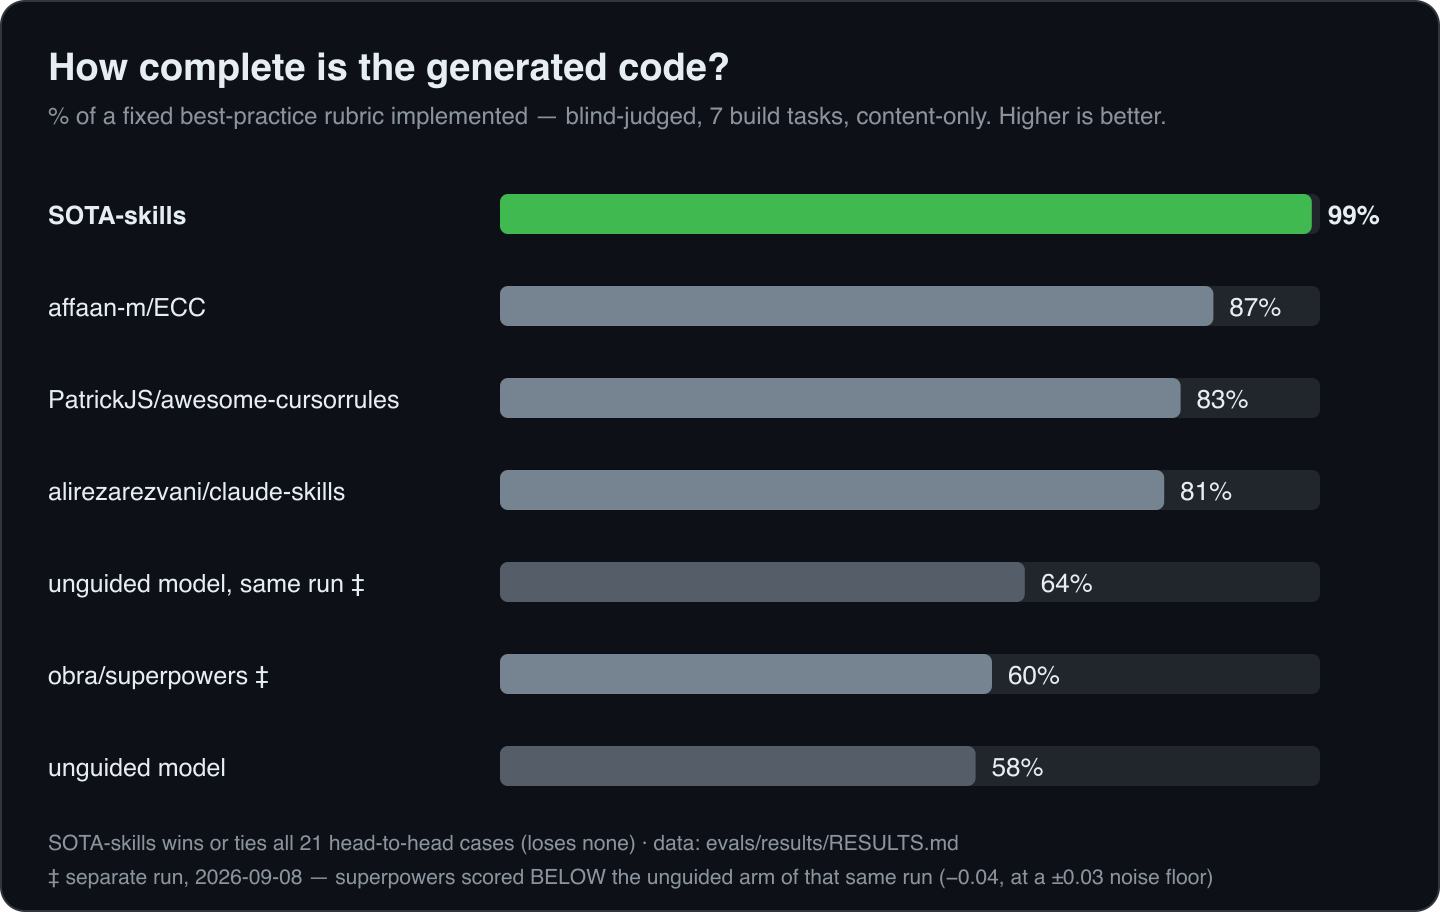
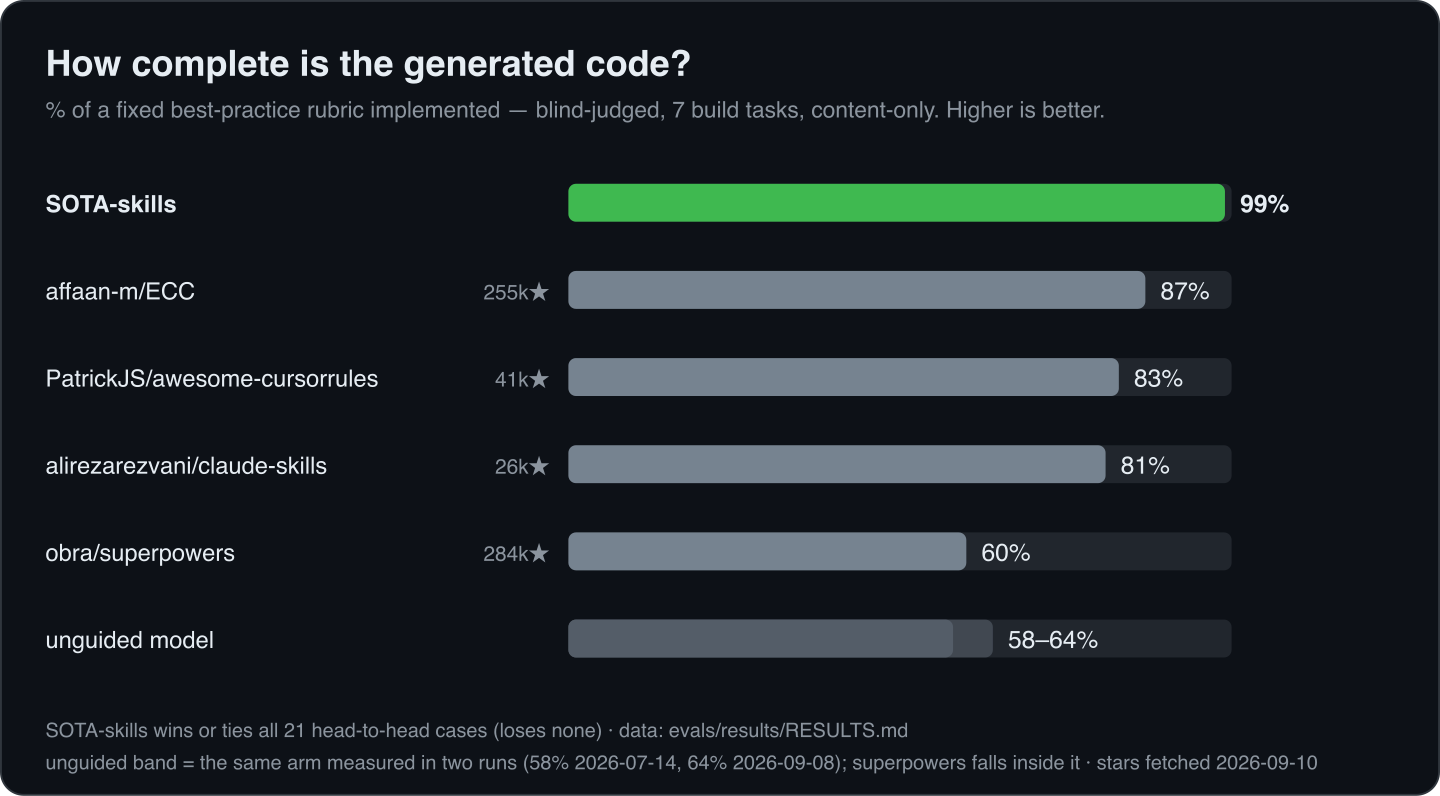
Benchmark chart: one baseline band, and star counts for the compared libraries (#340)
Two "unguided model" bars with two numbers (58% and 64%) was accurate and read
as a bug — the operator's first reaction was "this is confusing, two results for
the same thing?". Accuracy that reads as an error is a defect; a footnote does
not undo it.

The baseline is now ONE row spanning 58–64%, drawn as a solid bar to 58 with a
lighter extension to 64. That keeps what the two rows existed to say —
obra/superpowers at 60% lands INSIDE the band, so on this rubric it is not
distinguishable from no guidance — while putting a single baseline on the chart.
The spread is real and named in the footer: the same arm measured in two runs,
because temp 0 is not deterministic.

Star counts added for each compared library, live-fetched 2026-09-10 and dated in
the footer because they rot: ECC 255k, awesome-cursorrules 41k, claude-skills
26k, superpowers 284k. SOTA-skills deliberately carries NONE — our own star count
is a different and irrelevant claim here, and the chart is about completeness.
It also sharpens the framing the README already used: these are the popular
libraries.

Layout: 456 -> 420 high, label column widened 250 -> 300 for the star column.
Asserted rather than eyeballed — the baseline row must contain three rects
(track, band, solid) with band > solid, or the band silently renders as a plain
bar and nobody notices. The first draft of that assertion was itself wrong (it
compared y as a string) and was fixed before being trusted.
[…]

diff --git a/assets/gen-benchmark-chart.py b/assets/gen-benchmark-chart.py
@@ -16,22 +16,32 @@ import os
 import shutil
 import subprocess
 
-# The last two rows come from a SEPARATE run (2026-09-08) and are marked "‡".
-# They are shown as a PAIR on purpose: obra/superpowers scored 60% against an
-# unguided arm of 64% *in its own run*, i.e. BELOW no guidance. Plotting its 60%
-# beside this chart's 58% unguided — a different run's baseline — would read as
-# "beat the baseline" and invert the actual finding. Same 7 cases, same rubric,
-# same blind opus-4.8 judge, n=1 temp 0 throughout; the shared SOTA arm reproduces
-# at 0.987 across both runs, which is why they sit on one chart at all.
+# ONE baseline row, shown as a BAND, not two rows.
+#
+# An earlier version drew two "unguided model" bars (58% and 64%) because the
+# competitor benchmark and the superpowers head-to-head are separate runs whose
+# unguided arms differ -- temp-0 is not deterministic. It was accurate and it read
+# as a bug: a reader's first reaction was "why two baselines with two numbers?".
+# Confusion is a real cost, and explaining it in a footnote does not undo it.
+#
+# So the baseline is a single row spanning 58-64%, drawn as a solid bar to 58 with a
+# lighter extension to 64. That is honest about the spread AND makes the point the
+# two rows existed to make: obra/superpowers at 60% lands INSIDE the band, so it is
+# not distinguishable from no guidance at all. Nothing is claimed that the runs
+# cannot support, and there is only one baseline on the chart.
+#
+# Star counts are live-fetched context, not a metric: they say these are the POPULAR
+# libraries. SOTA-skills deliberately carries none -- comparing our own star count
+# here would be a different (and irrelevant) claim. Fetched 2026-09-10; stars rot,
+# so the footer dates them.
 ROWS = [
-    ("SOTA-skills", 99, "sota"),
-    ("affaan-m/ECC", 87, "comp"),
-    ("PatrickJS/awesome-cursorrules", 83, "comp"),
-    ("alirezarezvani/claude-skills", 81, "comp"),
-    ("unguided model, same run \u2021", 64, "base"),
-    ("obra/superpowers \u2021", 60, "comp"),
-    ("unguided model", 58, "base"),
+    ("SOTA-skills",                        99, "sota", ""),
+    ("affaan-m/ECC",                       87, "comp", "255k"),
+    ("PatrickJS/awesome-cursorrules",      83, "comp", "41k"),
+    ("alirezarezvani/claude-skills",       81, "comp", "26k"),
+    ("obra/superpowers",                   60, "comp", "284k"),
 ]
+BASE_LO, BASE_HI = 58, 64          # unguided, across the two runs
 
 THEMES = {
     "light": dict(surface="#ffffff", border="#d0d7de", ink="#1f2328", muted="#656d76",
@@ -40,8 +50,8 @@ THEMES = {
                  track="#21262d", sota="#3fb950", comp="#768390", base="#545d68"),
 }
 
-W, H = 720, 456
-LABEL_X, BAR_X, BAR_MAX = 24, 250, 410
+W, H = 760, 420
+LABEL_X, BAR_X, BAR_MAX = 24, 300, 350
 FIRST_TOP, ROW_H, BAR_H = 84, 46, 20
 FONT = "-apple-system,BlinkMacSystemFont,'Segoe UI',Helvetica,Arial,sans-serif"
 
@@ -53,10 +63,10 @@ def svg(theme_name):
         f'<svg xmlns="http://www.w3.org/2000/svg" viewBox="0 0 {W} {H}" '
         f'font-family="{FONT}" role="img" '
         f'aria-label="Best-practice completeness by library: SOTA-skills 99%, '
-        f'affaan-m/ECC 87%, PatrickJS/awesome-cursorrules 83%, '
-        f'alirezarezvani/claude-skills 81%, unguided model (same run as superpowers) '
-        f'64%, obra/superpowers 60%, unguided model 58%. Superpowers scored BELOW the '
-        f'unguided arm of its own run.">',
+        f'affaan-m/ECC 87% (255k stars), PatrickJS/awesome-cursorrules 83% (41k stars), '
+        f'alirezarezvani/claude-skills 81% (26k stars), obra/superpowers 60% (284k stars), '
+        f'and an unguided model at 58 to 64 percent across the two runs. Superpowers falls '
+        f'inside the unguided band, so it is not distinguishable from no guidance.">',
         f'<rect x="0.5" y="0.5" width="{W-1}" height="{H-1}" rx="12" '
         f'fill="{t["surface"]}" stroke="{t["border"]}"/>',
         f'<text x="{LABEL_X}" y="40" font-size="19" font-weight="700" '
@@ -65,25 +75,40 @@ def svg(theme_name):
         f'% of a fixed best-practice rubric implemented — blind-judged, 7 build '
         f'tasks, content-only. Higher is better.</text>',
     ]
-    for i, (name, pct, kind) in enumerate(ROWS):
+    def row(i, name, stars, pct, kind, band_hi=None):
         top = FIRST_TOP + i * ROW_H
         by = top + 13
         w = round(BAR_MAX * pct / 100, 1)
         weight = "700" if kind == "sota" else "400"
         out.append(f'<text x="{LABEL_X}" y="{by+15}" font-size="12.5" '
                    f'font-weight="{weight}" fill="{t["ink"]}">{name}</text>')
+        if stars:
+            out.append(f'<text x="{BAR_X - 10}" y="{by+15}" font-size="11" '
+                       f'text-anchor="end" fill="{t["muted"]}">{stars}\u2605</text>')
         out.append(f'<rect x="{BAR_X}" y="{by}" width="{BAR_MAX}" height="{BAR_H}" '
                    f'rx="4" fill="{t["track"]}"/>')
+        if band_hi is not None:
+            # the lighter extension: the same baseline measured in the other run
+            wh = round(BAR_MAX * band_hi / 100, 1)
+            out.append(f'<rect x="{BAR_X}" y="{by}" width="{wh}" height="{BAR_H}" '
+                       f'rx="4" fill="{t["base"]}" opacity="0.62"/>')
         out.append(f'<rect x="{BAR_X}" y="{by}" width="{w}" height="{BAR_H}" '
                    f'rx="4" fill="{fill[kind]}"/>')
-        out.append(f'<text x="{BAR_X + w + 8}" y="{by+15}" font-size="13" '
-                   f'font-weight="{weight}" fill="{t["ink"]}">{pct}%</text>')
+        label = f"{pct}%" if band_hi is None else f"{pct}\u2013{band_hi}%"
+        x = BAR_X + (w if band_hi is None else round(BAR_MAX * band_hi / 100, 1)) + 8
+        out.append(f'<text x="{x}" y="{by+15}" font-size="13" '
+                   f'font-weight="{weight}" fill="{t["ink"]}">{label}</text>')
+
+    for i, (name, pct, kind, stars) in enumerate(ROWS):
+        row(i, name, stars, pct, kind)
+    row(len(ROWS), "unguided model", "", BASE_LO, "base", BASE_HI)
+
     out.append(f'<text x="{LABEL_X}" y="{H-31}" font-size="10.5" fill="{t["muted"]}">'
                f'SOTA-skills wins or ties all 21 head-to-head cases (loses none) · '
                f'data: evals/results/RESULTS.md</text>')
     out.append(f'<text x="{LABEL_X}" y="{H-14}" font-size="10.5" fill="{t["muted"]}">'
-               f'\u2021 separate run, 2026-09-08 \u2014 superpowers scored BELOW the unguided '
-               f'arm of that same run (\u22120.04, at a \u00b10.03 noise floor)</text>')
+               f'unguided band = the same arm measured in two runs (58% 2026-07-14, 64% 2026-09-08); '
+               f'superpowers falls inside it \u00b7 stars fetched 2026-09-10</text>')
     out.append('</svg>')
     return "\n".join(out) + "\n"
 

diff --git a/README.md b/README.md
@@ -140,7 +140,7 @@ guidance libraries on backend build tasks**, SOTA-skills leads on completeness
 <p align="center">
   <picture>
     <source media="(prefers-color-scheme: dark)" srcset="assets/benchmark-dark.svg">
-    <img alt="Best-practice completeness on backend build tasks by library: SOTA-skills 99%, affaan-m/ECC 87%, PatrickJS/awesome-cursorrules 83%, alirezarezvani/claude-skills 81%, then from a separate 2026-09-08 run marked with a double dagger: unguided model 64% and obra/superpowers 60% — superpowers scored below the unguided arm of its own run — and unguided model 58% from the earlier run." src="assets/benchmark-light.svg" width="100%">
+    <img alt="Best-practice completeness on backend build tasks by library: SOTA-skills 99%, affaan-m/ECC 87% with 255k GitHub stars, PatrickJS/awesome-cursorrules 83% with 41k stars, alirezarezvani/claude-skills 81% with 26k stars, obra/superpowers 60% with 284k stars, and an unguided model at 58 to 64 percent across the two runs. Superpowers falls inside the unguided band, so on this rubric it is not distinguishable from no guidance." src="assets/benchmark-light.svg" width="100%">
   </picture>
 </p>
 
@@ -153,10 +153,11 @@ difficulty, not the domain — we measure it and say so.
 
 **And a result we will not dress up.** Two outside assessments named
 [`obra/superpowers`](https://github.com/obra/superpowers) as the methodological competitor,
-so we ran it (2026-09-08, pinned SHA, 7 cases) — it is the pair marked **‡** in the chart
-above: SOTA **0.987**, unguided **0.637**, Superpowers **0.599**. Its own run's unguided arm
-is plotted beside it deliberately, because the earlier run's 58% baseline is a *different*
-run and pairing 60% against that would invert the finding. That is **−0.04 versus no guidance at all**, against a ±0.03 noise
+so we ran it (2026-09-08, pinned SHA, 7 cases): SOTA **0.987**, unguided **0.637**,
+Superpowers **0.599**. In the chart above it sits at 60% against an unguided **band of
+58–64%** — the same arm measured in the two runs, since temp-0 is not deterministic — so it
+lands *inside* the baseline rather than above it. The band is one row on purpose: an earlier
+version drew two "unguided model" bars and, though accurate, it read as a bug. That is **−0.04 versus no guidance at all**, against a ±0.03 noise
 floor — so on this rubric the two are indistinguishable, and the honest reading is about the
 instrument, not the project. Superpowers is *process* guidance; these cases score a *built
 artifact's* domain coverage. A low score is evidence about **fit to this measure**. It shows
